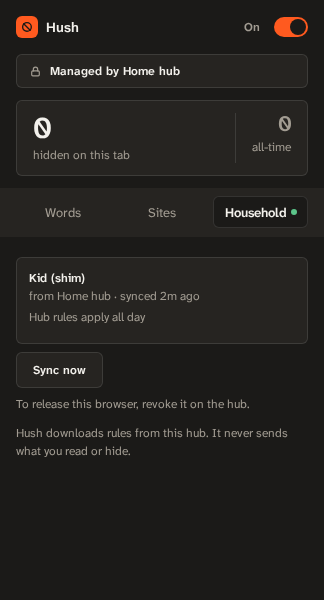
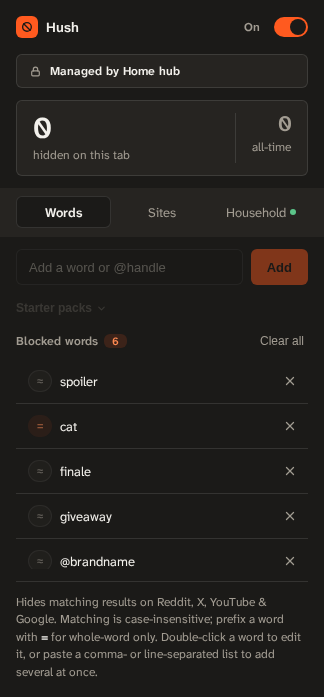
Fix words-locked capture, connecting code and connected clock in popup screens (#566)

diff --git a/e2e/popup-screens.spec.ts b/e2e/popup-screens.spec.ts
@@ -1,6 +1,6 @@
 import { mkdirSync } from 'node:fs';
 import { resolve } from 'node:path';
-import { test, type Page } from '@playwright/test';
+import { expect, test, type Page } from '@playwright/test';
 import {
   HUB, HUB_CONFIG, HUB_CONFIG_LOCKED, POPUP_URL, QUIET_WINDOW, installPopupShim, type PopupSeed,
 } from './popup-shim';
@@ -44,13 +44,13 @@ const SCREENS: Screen[] = [
     opts: { permission: 'hang' },
     prep: async (page) => {
       await page.locator('#hubUrl').fill('http://hub.home:3000');
-      await page.locator('#hubCode').fill('ABCD-2345');
+      await page.locator('#hubCode').fill('ABCDEF');
       await page.getByRole('button', { name: 'Connect' }).click();
     },
   },
   {
     name: 'household-connected',
-    seed: { ...connected, hubConfig: { ...HUB_CONFIG, quietHours: QUIET_WINDOW } },
+    seed: { ...connected, hubConfig: { ...HUB_CONFIG, quietHours: QUIET_WINDOW }, hubStatus: { ...SYNCED, lastSync: Date.parse('2026-10-19T09:55:00Z'), lastAttempt: Date.parse('2026-10-19T09:55:00Z') } },
     opts: { now: '2026-10-19T10:00:00Z' },
   },
   {
@@ -66,11 +66,14 @@ const SCREENS: Screen[] = [
   {
     name: 'household-locked',
     seed: { popupTab: 'words', blockWords: SIX, hub: HUB, hubConfig: HUB_CONFIG_LOCKED, hubStatus: SYNCED },
-    prep: async (page) => { await page.locator('#tab-household').click(); },
+    // A locked device opens on Household by itself.
+    prep: async (page) => { await expect(page.locator('#tab-household')).toHaveAttribute('aria-selected', 'true'); },
   },
   {
     name: 'words-locked',
     seed: { popupTab: 'words', blockWords: SIX, hub: HUB, hubConfig: HUB_CONFIG_LOCKED, hubStatus: SYNCED },
+    // Opens on Household; move to Words to show the disabled editors under the banner.
+    prep: async (page) => { await page.locator('#tab-words').click(); },
   },
   { name: 'paused', seed: { ...connected, enabled: false } },
 ];

diff --git a/docs/screens/popup/README.md b/docs/screens/popup/README.md
@@ -20,10 +20,10 @@ POPUP_SCREENS=1 pnpm e2e e2e/popup-screens.spec.ts --project=desktop
 | `sites` | Sites tab, YouTube block open, "Open Subscriptions" switch on |
 | `household-off` | Household, not connected: the connect form |
 | `household-connecting` | Connect pressed while the permission request is pending |
-| `household-connected` | Connected, with a quiet-hours window (Monday 10:00 UTC) |
+| `household-connected` | Connected, with a quiet-hours window (window Monday 09:00-17:00 UTC, captured at 10:00) |
 | `household-offline` | Hub unreachable, using the last rules |
 | `household-invalid` | Hub sent rules Hush can't use |
 | `household-revoked` | Device removed on the hub, rejoin help |
 | `household-locked` | Locked profile, Household tab |
-| `words-locked` | Locked profile, Words tab read-only with the "Managed by" banner |
+| `words-locked` | Locked profile, Words tab, opened from Household, editors disabled with the "Managed by" banner |
 | `paused` | Hush off while paired: hub rules paused too |
